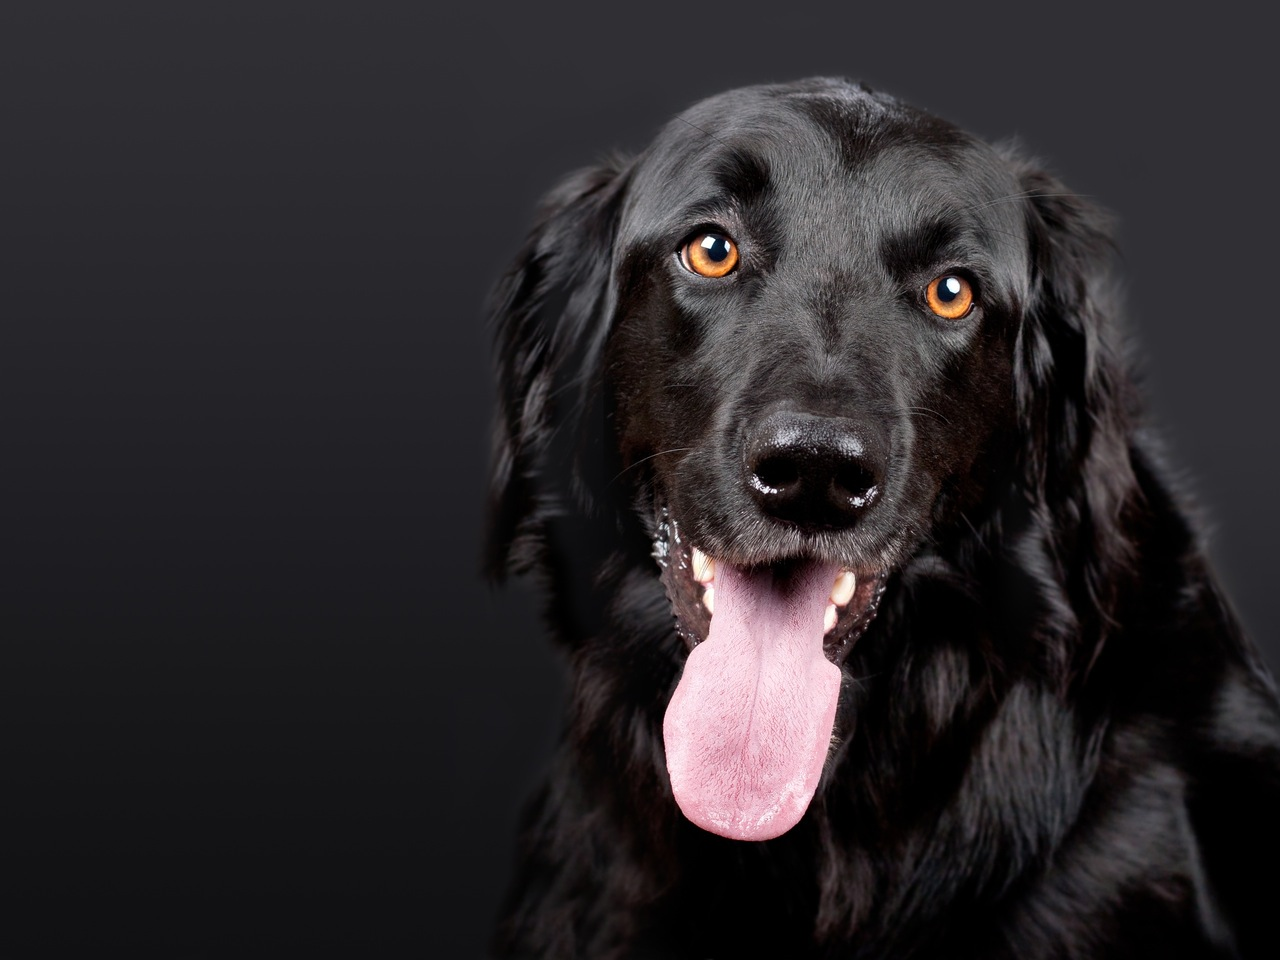
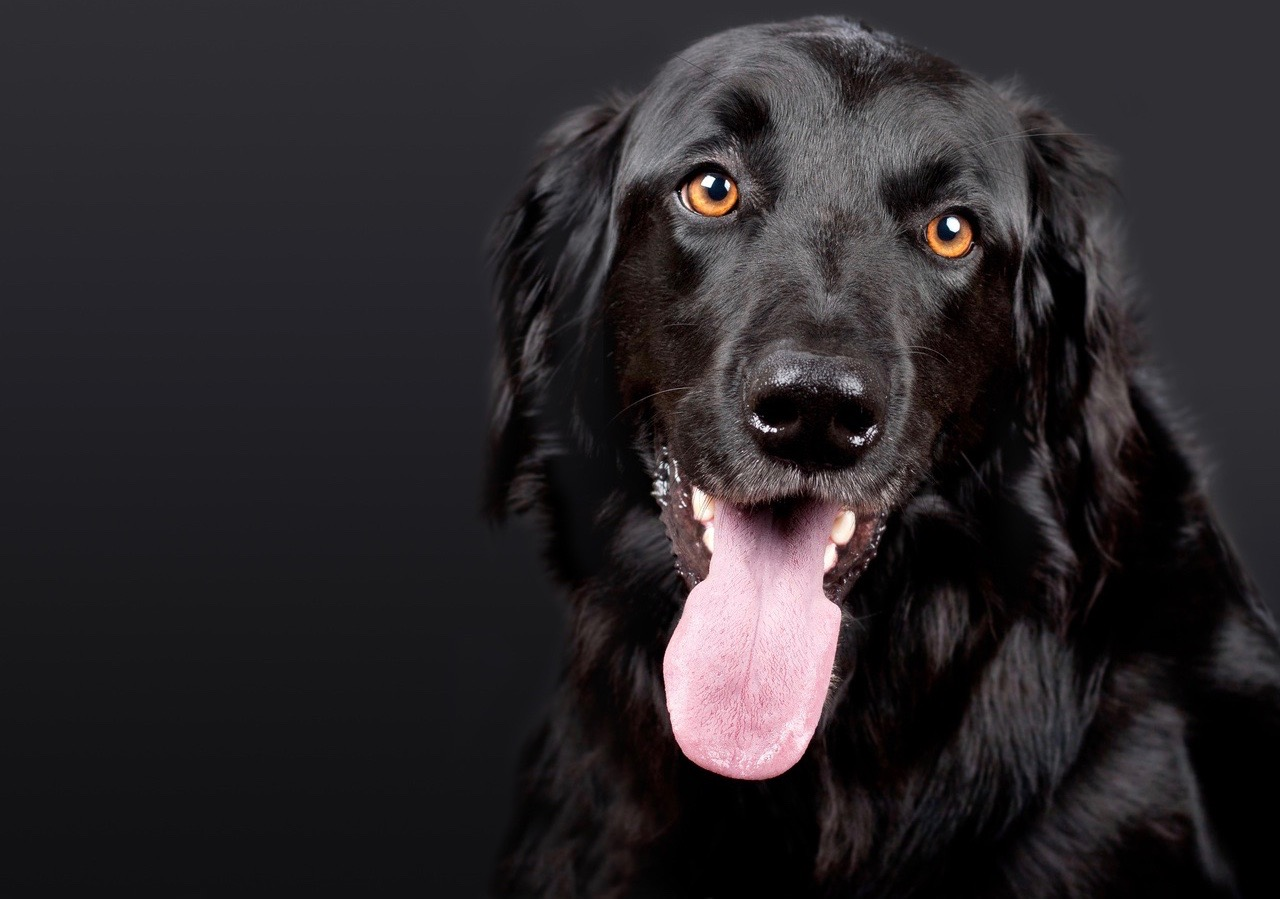
updated font of header/project name in navbar and aligned left, added border to top of jumbotron, changed color of tagline, increased left margin of jumbotron text, cropped dog pic and updated link with new image

diff --git a/project1.html b/project1.html
@@ -4,17 +4,18 @@
 		<meta charset="UTF-8">
 		<title>Furget-Me-Not</title>
 		<link rel="stylesheet" type="text/css" href="assets/css/reset.css">
-		<link rel="stylesheet" type="text/css" href="assets/css/style.css">
 		<link rel="stylesheet" href="https://maxcdn.bootstrapcdn.com/bootstrap/3.3.7/css/bootstrap.min.css">
 		<link rel="stylesheet" href="bower_components/materialize/dist/css/materialize.css">
-		<link href="https://fonts.googleapis.com/css?family=Raleway|Material+Icons" rel="stylesheet">
+		<link href="https://fonts.googleapis.com/css?family=Raleway|Material+Icons|Patrick+Hand+SC" rel="stylesheet">
 		<link rel="stylesheet" type="text/css" href="bower_components/sweetalert2/dist/sweetalert2.min.css">
+		<link rel="stylesheet" type="text/css" href="assets/css/style.css">
+	
 	</head>
 	<body>
 		<!-- nav bar -->
-		<nav class="brown lighten-3">
-		    <div class="nav-wrapper container">
-		     	<h1 class="brand-logo">Furget-Me-Not</h1>
+		<nav class="brown lighten-3" id="header">
+		    <div class="nav-wrapper container" id="container">
+		     	<p class="brand-logo" id="projectName">Furget-Me-Not Pets</p>
 		     	<!-- shows icons for nav links -->
 		    	<ul class="right hide-on-med-and-down">
 			        <li><a href="sass.html"><i class="material-icons">search</i></a></li>
@@ -26,16 +27,18 @@
 	<!-- jumbotron -->
 
 	<div class="jumbotron">
-		<div class="content center-align">
-			<h2>Can-ine Come Home With You?</h2>
-			  <p>You are a GREAT human who deserves the unconditional love only a furgotten furiend can give!</p>
-			  <p>Our mission is to find furever homes for any and all animals in need of a loving family. We focus on pets that are picked last in gym class. They may be senior pets, have special needs, or have been waiting a long time for their furever home. Help today by clicking the button below!</p>
-		<p><a href="searchForm.html" class="btn btn-primary btn-lg" role="button" id="petFind">Find my bestie!</a></p>
-		</div>	
+		<div id="missionState">
+			<div class="content center-align">
+				<h2 id="tagline">Can-ine Come Home With You?</h2>
+				<p>You are a GREAT human who deserves the unconditional love only a furgotten furiend can give!</p>
+				<p>Our mission is to find furever homes for any and all animals in need of a loving family. We focus on pets that are picked last in gym class. They may be senior pets, have special needs, or have been waiting a long time for their furever home. Help today by clicking the button below!</p>
+				<p><a href="searchForm.html" class="btn btn-primary btn-lg" role="button" id="petFind">Find my bestie!</a></p>
+			</div>	
+		</div>
 	</div>
 
 	<!-- footer -->
-	<footer class="page-footer brown lighten-3">
+	<footer class="page-footer brown lighten-3" id="footer">
 		<div class="footer-container row">
 			<div class="col l6 s12">
 				<h5 class="white-text">About Us</h5>

diff --git a/assets/css/style.css b/assets/css/style.css
@@ -15,12 +15,15 @@ main {
 }
 
 .jumbotron {
-	padding: 0;
+	/*padding: 0;*/
 	background-image: url("../images/black_dog.jpeg");
 	background-color: "brown lighten-4";
 	background-size: 100%;
 	background-repeat: no-repeat;
-	height: 700px;
+	height: 1000px;
+	margin-bottom: 0px;
+	padding-bottom: 0px;
+	border-top: 8px solid #6D7993;
 }
 
 .content{
@@ -30,9 +33,13 @@ main {
 	color: white;
 }
 
- h1 {
- 	padding: 0;
- 	margin: 0;
+ #projectName {
+ 	font-family: Patrick Hand SC;
+ 	font-weight: bold;
+ 	font-size: 60px;
+ 	margin-top: 0px;
+ 	padding-top: 0px;
+ 	padding-left: 30px;
  }
 
   #map, #map2 {
@@ -41,4 +48,21 @@ main {
    background-color: grey;
  }
 
+ #tagline {
+ 	color: #F78733;
+ }
 
+ #footer {
+ 	margin-top: 0px;
+ 	padding-top: 0px;
+ 	background-color: #6D7993;
+ }
+
+ #container {
+ 	margin-left: 0px;
+ 	padding-left: 0px;
+ }
+
+#missionState {
+	margin-left: 80px;
+}

diff --git a/searchForm.html b/searchForm.html
@@ -25,6 +25,8 @@
 		</nav>
 		<form>
   <div>
+
+  <!--WORK ON THIS TODAY - GETTING THE INPUTS CORRECT, CONDITIONALS FOR CATS/VS DOGS/VS BOTH-->
    <label for="zipcode">Enter Your Zipcode</label>
    <input type="text" class="form-control" id="userZip"> <!--we will need to use this ID to pull zip into javascript using jquery-->
    
